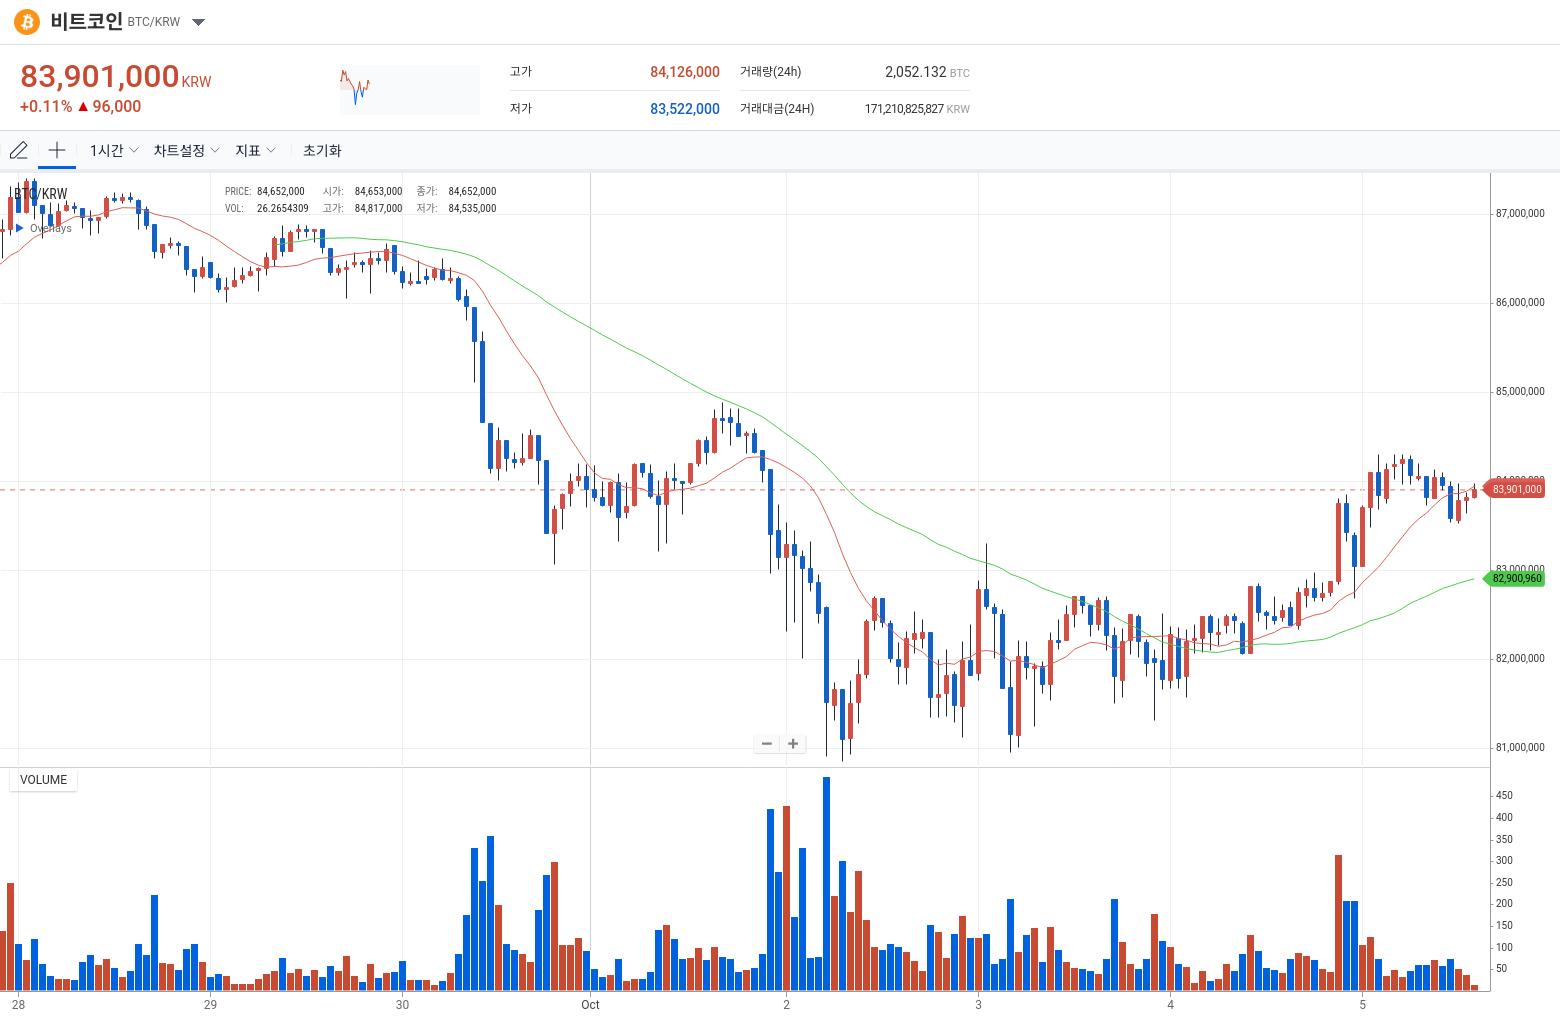
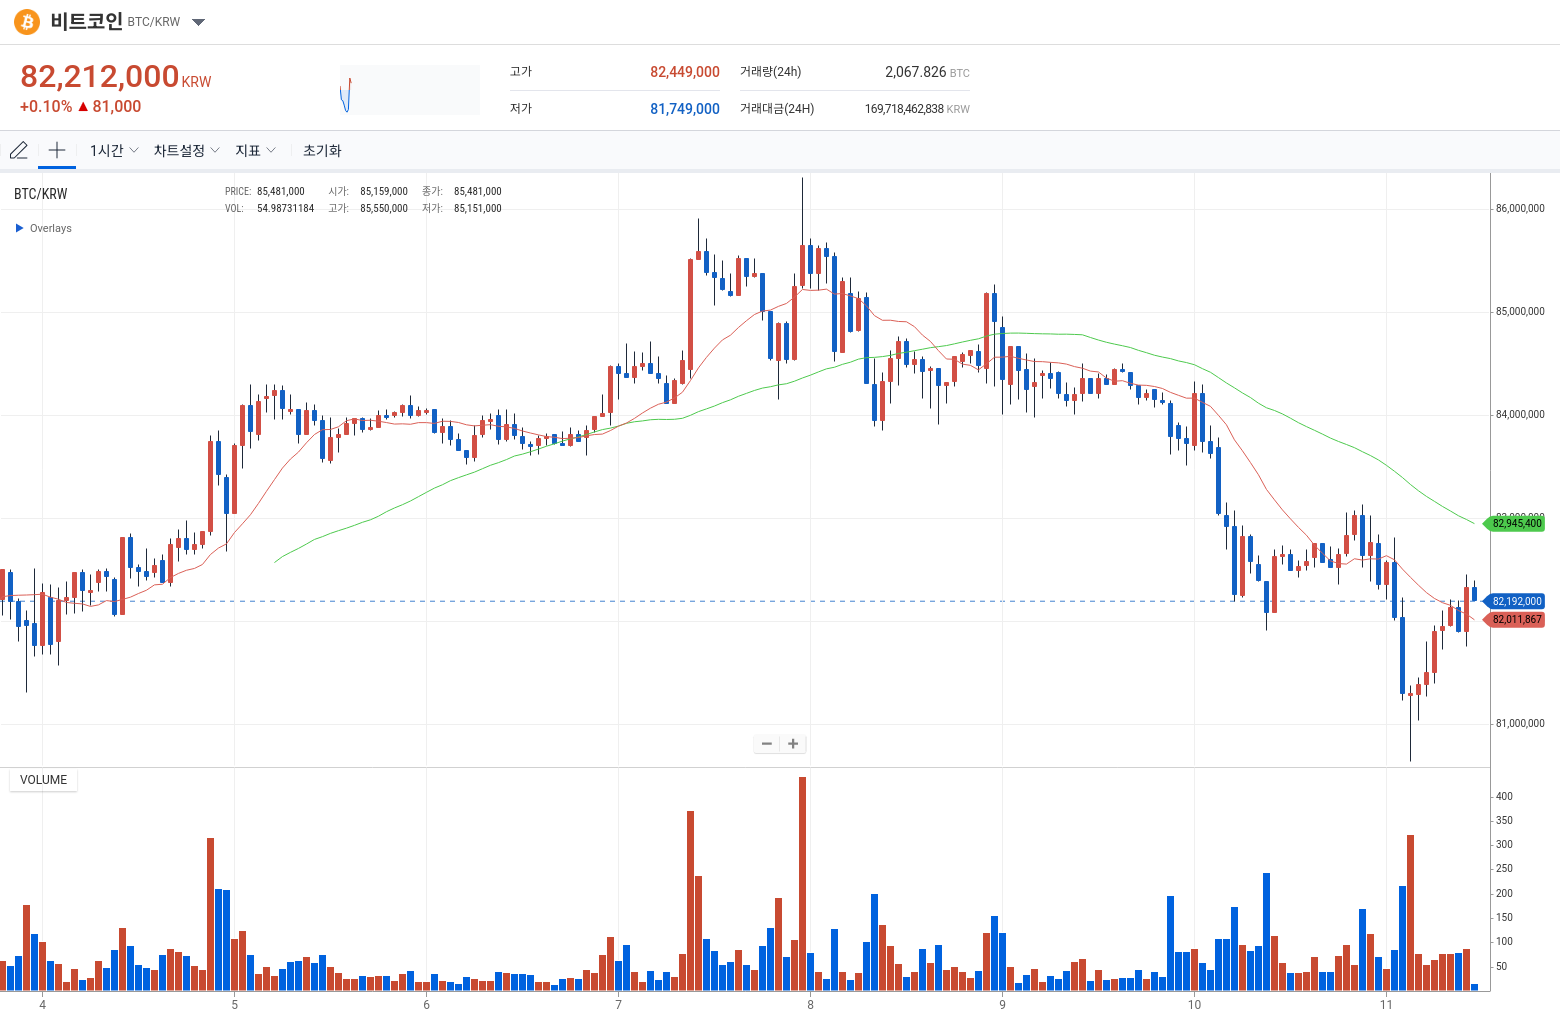
temporarily comment youtube transcript api & read from transcribed strategy.txt

diff --git a/autotrade.py b/autotrade.py
@@ -407,11 +407,19 @@ def ai_trading_with_reflection():
 
     # YouTube 자막 데이터 가져오기
     video_ids = ["3XbtEX3jUv4"]  # 워뇨띠님의 영상 ID
-    youtube_transcripts = []
-    for video_id in video_ids:
-        transcript = get_full_transcript(video_id)
-        if transcript:
-            youtube_transcripts.append(transcript)
+    youtube_transcripts = [] 
+    # for video_id in video_ids:
+    #     transcript = get_full_transcript(video_id)
+    #     if transcript:
+    #         f = open("strategy.txt", "w", encoding="utf-8")
+    #         f.write(transcript)
+    #         f.close()
+    #         youtube_transcripts.append(transcript)
+
+    f = open("strategy.txt", "r", encoding="utf-8")
+    transcript = f.read()
+    f.close()
+    youtube_transcripts.append(transcript)
 
     # 워뇨띠님의 매매법을 시스템 메시지에 포함
     wonyotti_strategy = youtube_transcripts[0] if youtube_transcripts else "워뇨띠님의 매매법 데이터를 가져오지 못했습니다."

diff --git a/tests/test_total_autotrade.py b/tests/test_total_autotrade.py
@@ -407,11 +407,19 @@ def ai_trading_with_reflection():
 
     # YouTube 자막 데이터 가져오기
     video_ids = ["3XbtEX3jUv4"]  # 워뇨띠님의 영상 ID
-    youtube_transcripts = []
-    for video_id in video_ids:
-        transcript = get_full_transcript(video_id)
-        if transcript:
-            youtube_transcripts.append(transcript)
+    youtube_transcripts = [] 
+    # for video_id in video_ids:
+    #     transcript = get_full_transcript(video_id)
+    #     if transcript:
+    #         f = open("strategy.txt", "w", encoding="utf-8")
+    #         f.write(transcript)
+    #         f.close()
+    #         youtube_transcripts.append(transcript)
+
+    f = open("strategy.txt", "r", encoding="utf-8")
+    transcript = f.read()
+    f.close()
+    youtube_transcripts.append(transcript)
 
     # 워뇨띠님의 매매법을 시스템 메시지에 포함
     wonyotti_strategy = youtube_transcripts[0] if youtube_transcripts else "워뇨띠님의 매매법 데이터를 가져오지 못했습니다."
